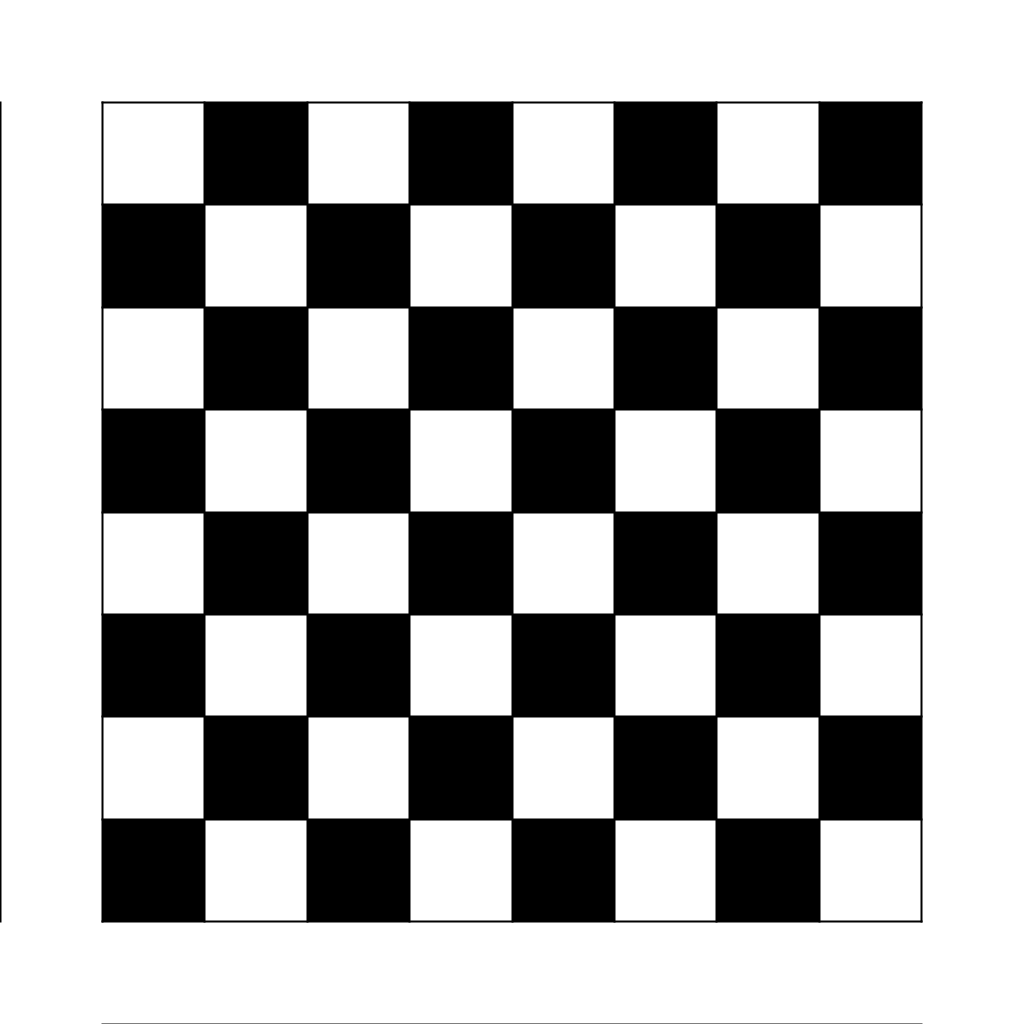
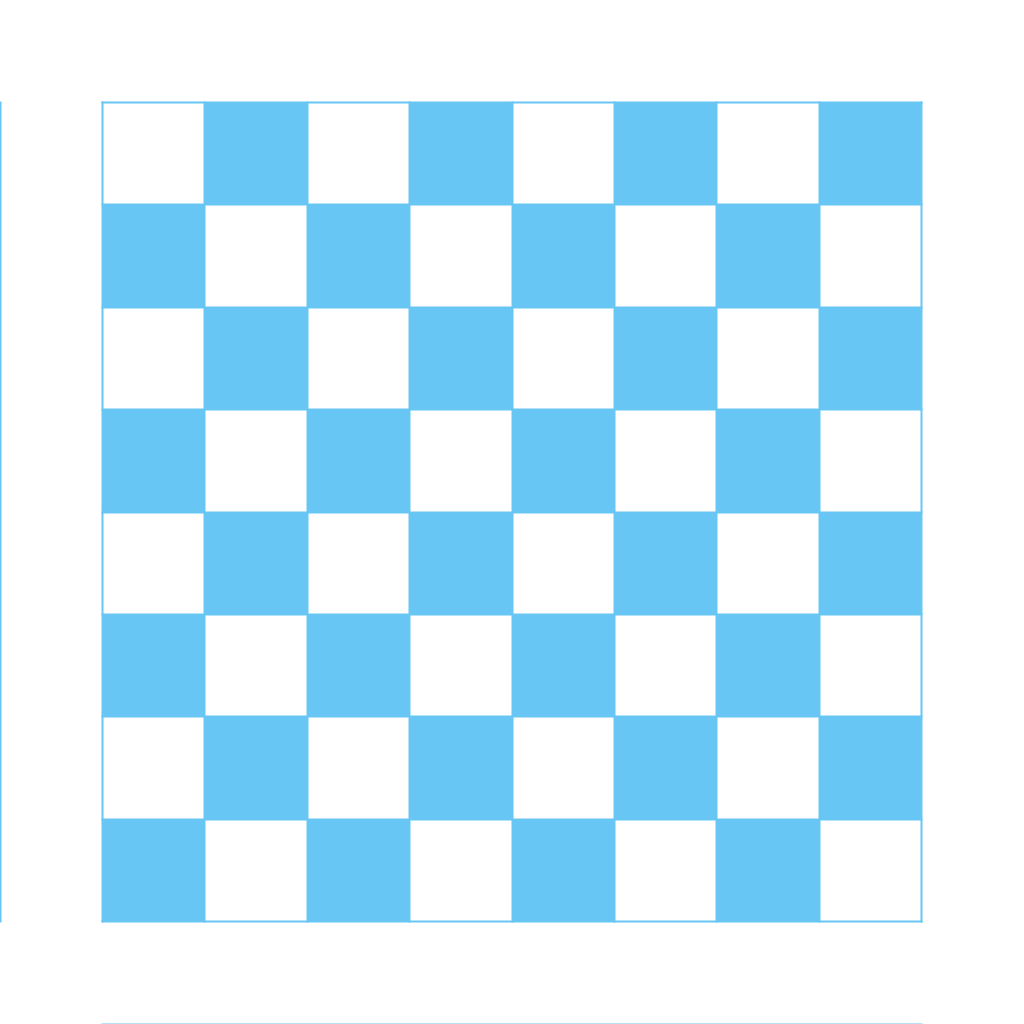
expirimenting with printing gui

diff --git a/Chess Game/src/Board.java b/Chess Game/src/Board.java
@@ -5,9 +5,11 @@ public class Board {
     final int scale = 10;
 
     Piece[][] pieces = new Piece[8][8];
+    public Piece[][] getPieces( ){
+        return pieces ;
+    }
     public Board(){
         System.out.print("Checking");
-        genBoard();
     }
     public String toString() {
         return "This is a board";
@@ -18,7 +20,7 @@ public class Board {
     }
     public Piece remove(int[] location) {
         Piece piece = pieces[location[0]][location[1]] ;
-        pieces[location[0]][location[1]] = new Space();
+        pieces[location[0]][location[1]] = null;
         return piece ;
     }
     public void move(int[] start , int[] end){
@@ -28,37 +30,12 @@ public class Board {
     public void show(){
 
     }
-    private void genBoard( ){
-        StdDraw.setXscale(0,scale);
-        StdDraw.setYscale(0,scale);
-        boolean isStartWhite = true ;
-
-        for(int row = 0 ; row < scale ; row ++){
-            StdDraw.line(1,row,scale-1,row);
-            StdDraw.line(row,1,row,scale -1);
-
-            if(row < scale -1 & row >= 1){
-
-                for(int col = 1; col < scale - 1; col ++){
-                    if (isStartWhite){
-                        StdDraw.setPenColor(StdDraw.BLACK);
-                        StdDraw.filledSquare(col + 0.5 ,row + 0.5 , 0.5);
-                        isStartWhite = false;
-                    }else{
-                        isStartWhite = true ;
-                    }
-                }
-                isStartWhite =!isStartWhite ;
-            }
-        }
-
-        StdDraw.save("board.png");
-        StdDraw.show( );
-    }
     public static void main(String[] args){
         Board board = new Board() ;
         int[] cord =  {0,0} ;
         Queen queen = new Queen(true);
         board.insert(queen , cord);
+        System.out.println( board.getPieces()[0][1]);
+        System.out.println("Printing Done");
     }
 }

diff --git a/Chess Game/src/Gui2D.java b/Chess Game/src/Gui2D.java
@@ -1,0 +1,56 @@
+import edu.princeton.cs.algs4.StdDraw;
+
+public class Gui2D {
+    final int scale = 10 ;
+    Board board ;
+    public Gui2D(Board b){
+        board = b ;
+    }
+
+    private void drawBoard( ){
+        StdDraw.setXscale(0,scale);
+        StdDraw.setYscale(0,scale);
+        StdDraw.setPenColor(StdDraw.BOOK_LIGHT_BLUE);
+        boolean isStartWhite = true ;
+
+        for(int row = 0 ; row < scale ; row ++){
+            StdDraw.line(1,row,scale-1,row);
+            StdDraw.line(row,1,row,scale -1);
+
+            if(row < scale -1 & row >= 1){
+
+                for(int col = 1; col < scale - 1; col ++){
+                    if (isStartWhite){
+                        StdDraw.filledSquare(col + 0.5 ,row + 0.5 , 0.5);
+                        isStartWhite = false;
+                    }else{
+                        isStartWhite = true ;
+                    }
+                }
+                isStartWhite =!isStartWhite ;
+            }
+        }
+
+        StdDraw.save("board.png");
+    }
+    public void drawPieces( ){
+        // pieces[row][col]
+        Piece[][] pieces = board.getPieces() ;
+        for(Piece[] rowPieces : pieces){
+            for(Piece piece : rowPieces){
+
+            }
+        }
+    }
+    public void show( ){
+        drawBoard();
+        drawPieces();
+        StdDraw.show();
+
+    }
+    public static void main(String[] args){
+        Board board1 = new Board() ;
+        Gui2D gui = new Gui2D(board1);
+        gui.show();
+    }
+}

diff --git a/Chess Game/src/Piece.java b/Chess Game/src/Piece.java
@@ -1,6 +1,9 @@
+import edu.princeton.cs.algs4.Picture;
+
 public class Piece {
     boolean _isWhite;
     int[][] history ;
+    String picPath ;
 
     public Piece(boolean isWhite){
         _isWhite = isWhite ;
@@ -11,16 +14,21 @@ public class Piece {
         return a ;
     }
 
+    public void record( int[] cord){
+        if(history != null){
+            int[][] h = new int[history.length + 1][2];
+            System.arraycopy(history, 0, h, 0, history.length);
+            h[h.length - 1] = cord ;
+            history = h ;
+        }else{
+            int[][] h = {cord} ;
+            history = h ;
+        }
+    }
+
     public static void main(String[] args){
         int[] c = {1,3} ;
         Piece piece = new Piece(true) ;
         System.out.println(piece );
-    }
-
-    public void record( int[] cord){
-        int[][] h = new int[history.length + 1][2];
-        System.arraycopy(history, 0, h, 0, history.length);
-        h[h.length - 1] = cord ;
-        history = h ;
     }
 }

diff --git a/Chess Game/src/Experiment.java b/Chess Game/src/Experiment.java
@@ -1,0 +1,16 @@
+import edu.princeton.cs.algs4.Picture;
+import edu.princeton.cs.algs4.StdDraw;
+
+public class Experiment {
+
+    public Experiment( ) {
+
+    }
+    public static void main(String[] args){
+        StdDraw.setXscale(0,10);
+        StdDraw.setYscale(0,10);
+        StdDraw.picture(5,5,"board.png",10,10);
+        StdDraw.picture(1.5,1.5,"Chess Game/Assets/b_Queen.png",1,1);
+        StdDraw.show();
+    }
+}

diff --git a/Chess Game/src/Queen.java b/Chess Game/src/Queen.java
@@ -1,6 +1,8 @@
 public class Queen extends Piece{
+    String[] path = {"Chess Game/Assets/b_Queen.png"};
     public Queen(boolean isWhite) {
         super(isWhite);
+        picPath = path[0] ;
     }
     public String toString( ){
 
